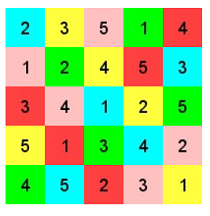
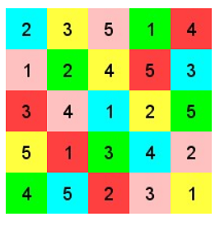
wieder etwas vergrössert

diff --git a/puzzle/puzzle37/solut37.html b/puzzle/puzzle37/solut37.html
@@ -15,7 +15,7 @@
 
 <h1>Lösung Puzzle 37: Ergänzung zum Eulerschen Quadrat</h1>
 
-<img src="solut37.png" width="210" height="216" alt="solut37">
+<img src="solut37.png" width="220" height="226" alt="solut37">
 
 <br>
 <p><a href="./">Zurück zur Aufgabenstellung</a></p>
